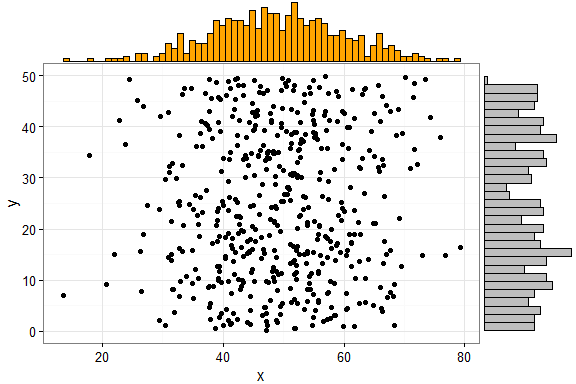
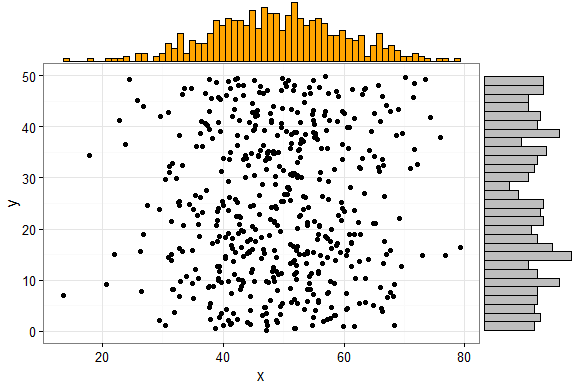
last touches on the ggmarginal addin

Changed region(s): [[0.8438, 0.1875, 1.0, 0.8438]]

diff --git a/README.md b/README.md
@@ -10,8 +10,8 @@ version](http://www.r-pkg.org/badges/version/ggExtra)](https://cran.r-project.or
 The main function is `ggMarginal`, which can be used to add marginal
 histograms/boxplots/density plots to ggplot2 scatterplots. You can view
 a [live interactive
-demo](http://daattali.com/shiny/ggExtra-ggMarginal-demo/) to see part of
-its capabilities.
+demo](http://daattali.com/shiny/ggExtra-ggMarginal-demo/) to see some of
+its functionality.
 
 Most other functions/layers are quite simple but are useful because they
 are fairly common ggplot2 operations that are a bit verbose.
@@ -19,10 +19,6 @@ are fairly common ggplot2 operations that are a bit verbose.
 This is an instructional document, but I also wrote [a blog
 post](http://deanattali.com/2015/03/29/ggExtra-r-package/) about the
 reasoning behind and development of this package.
-
-*Note: you might notice that there are no unit tests in this package. I
-don't know of a good way to perform tests on plots, if you have a nice
-simple solution please do let me know.*
 
 Installation
 ------------
@@ -33,10 +29,22 @@ To install the CRAN version:
 
     install.packages("ggExtra")
 
-To install the latest developmental version from GitHub:
+To install the latest development version from GitHub:
 
     install.packages("devtools")
     devtools::install_github("daattali/ggExtra")
+
+Marginal plots RStudio addin/gadget
+-----------------------------------
+
+`ggExtra` comes with an addin for `ggMarginal()`, which lets you
+interactively add marginal plots to a scatter plot. To use it, simply
+highlight the code for a ggplot2 plot in your script, and select
+*ggplot2 Marginal Plots* from the RStudio *Addins* menu. Alternatively,
+you can call the addin directly by calling `ggMarginalGadget(plot)` with
+a ggplot2 plot.
+
+![ggMarginal gadget screenshot](inst/img/ggmarginal-gadget.png)
 
 Usage
 -----

diff --git a/NEWS.md b/NEWS.md
@@ -1,3 +1,9 @@
+# ggExtra 0.4.0
+
+2016-03-25
+
+- Added an RStudio addin and gadget for creating ggplot2 marginal plots
+
 # ggExtra 0.3.3
 
 2015-12-14
